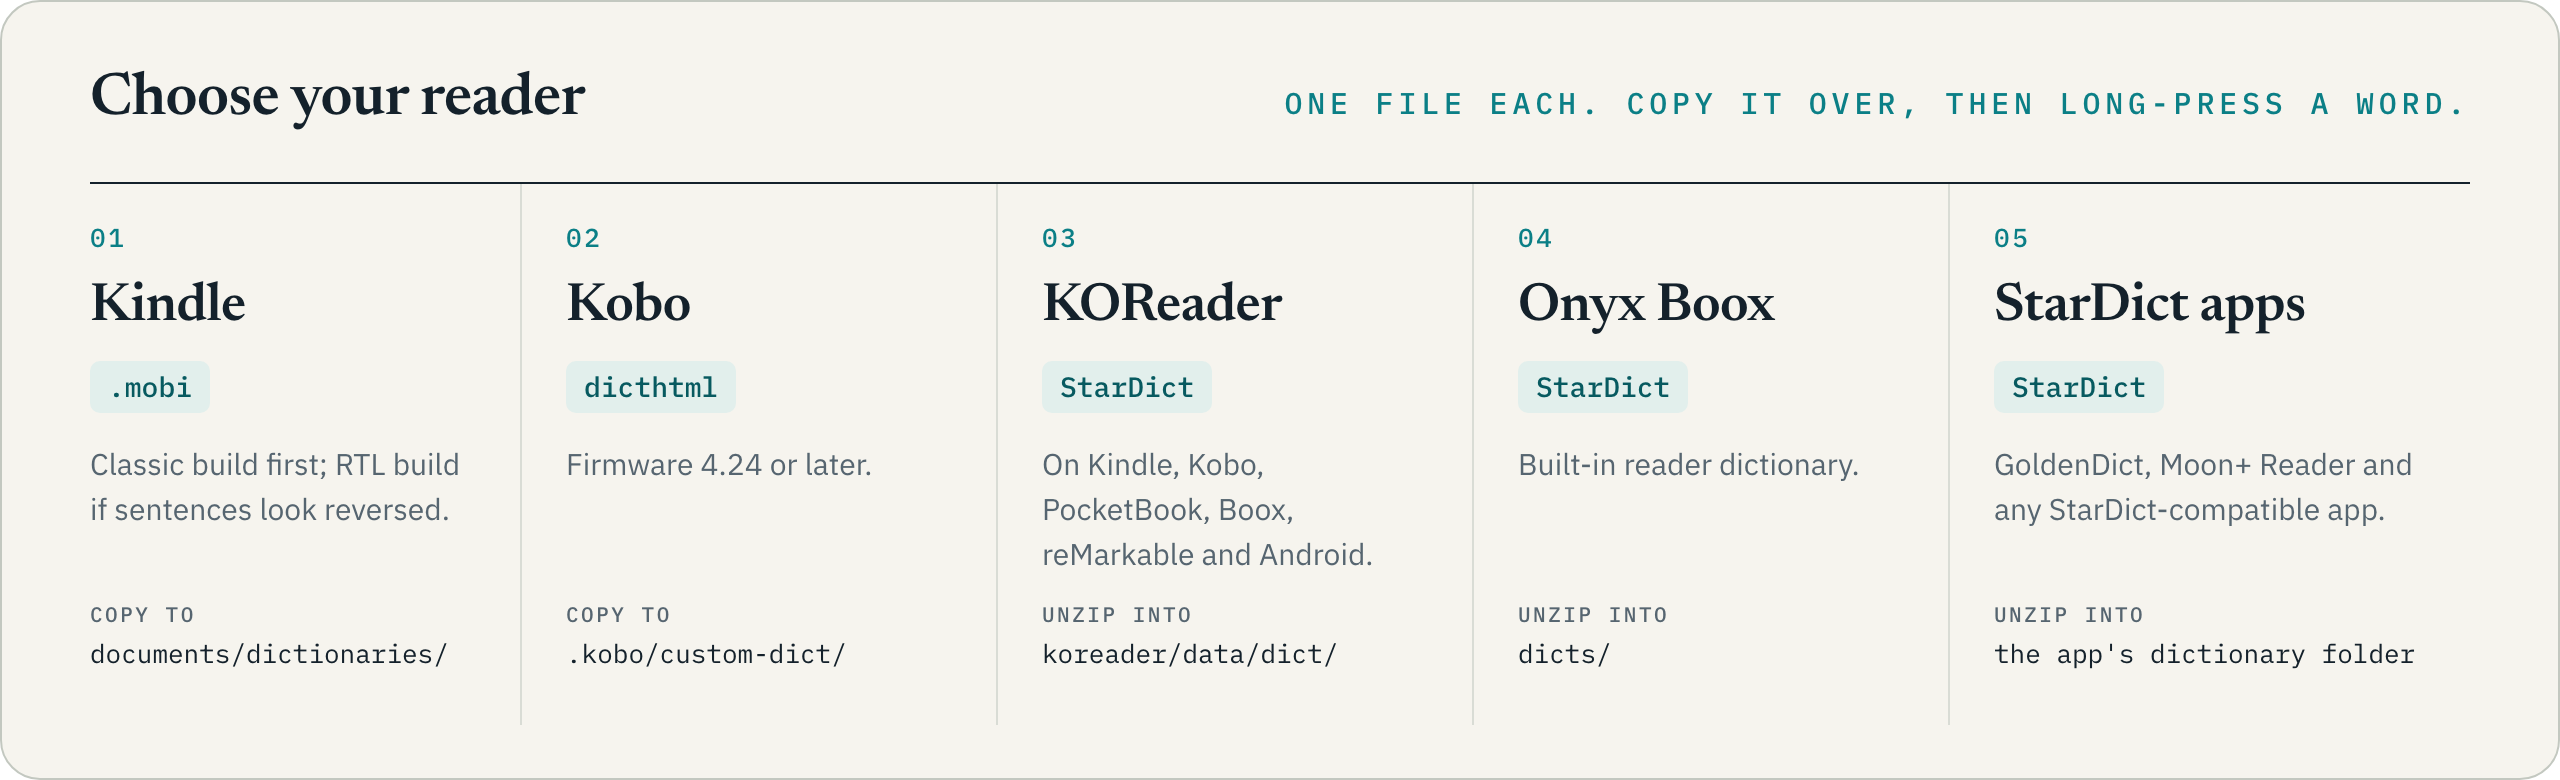
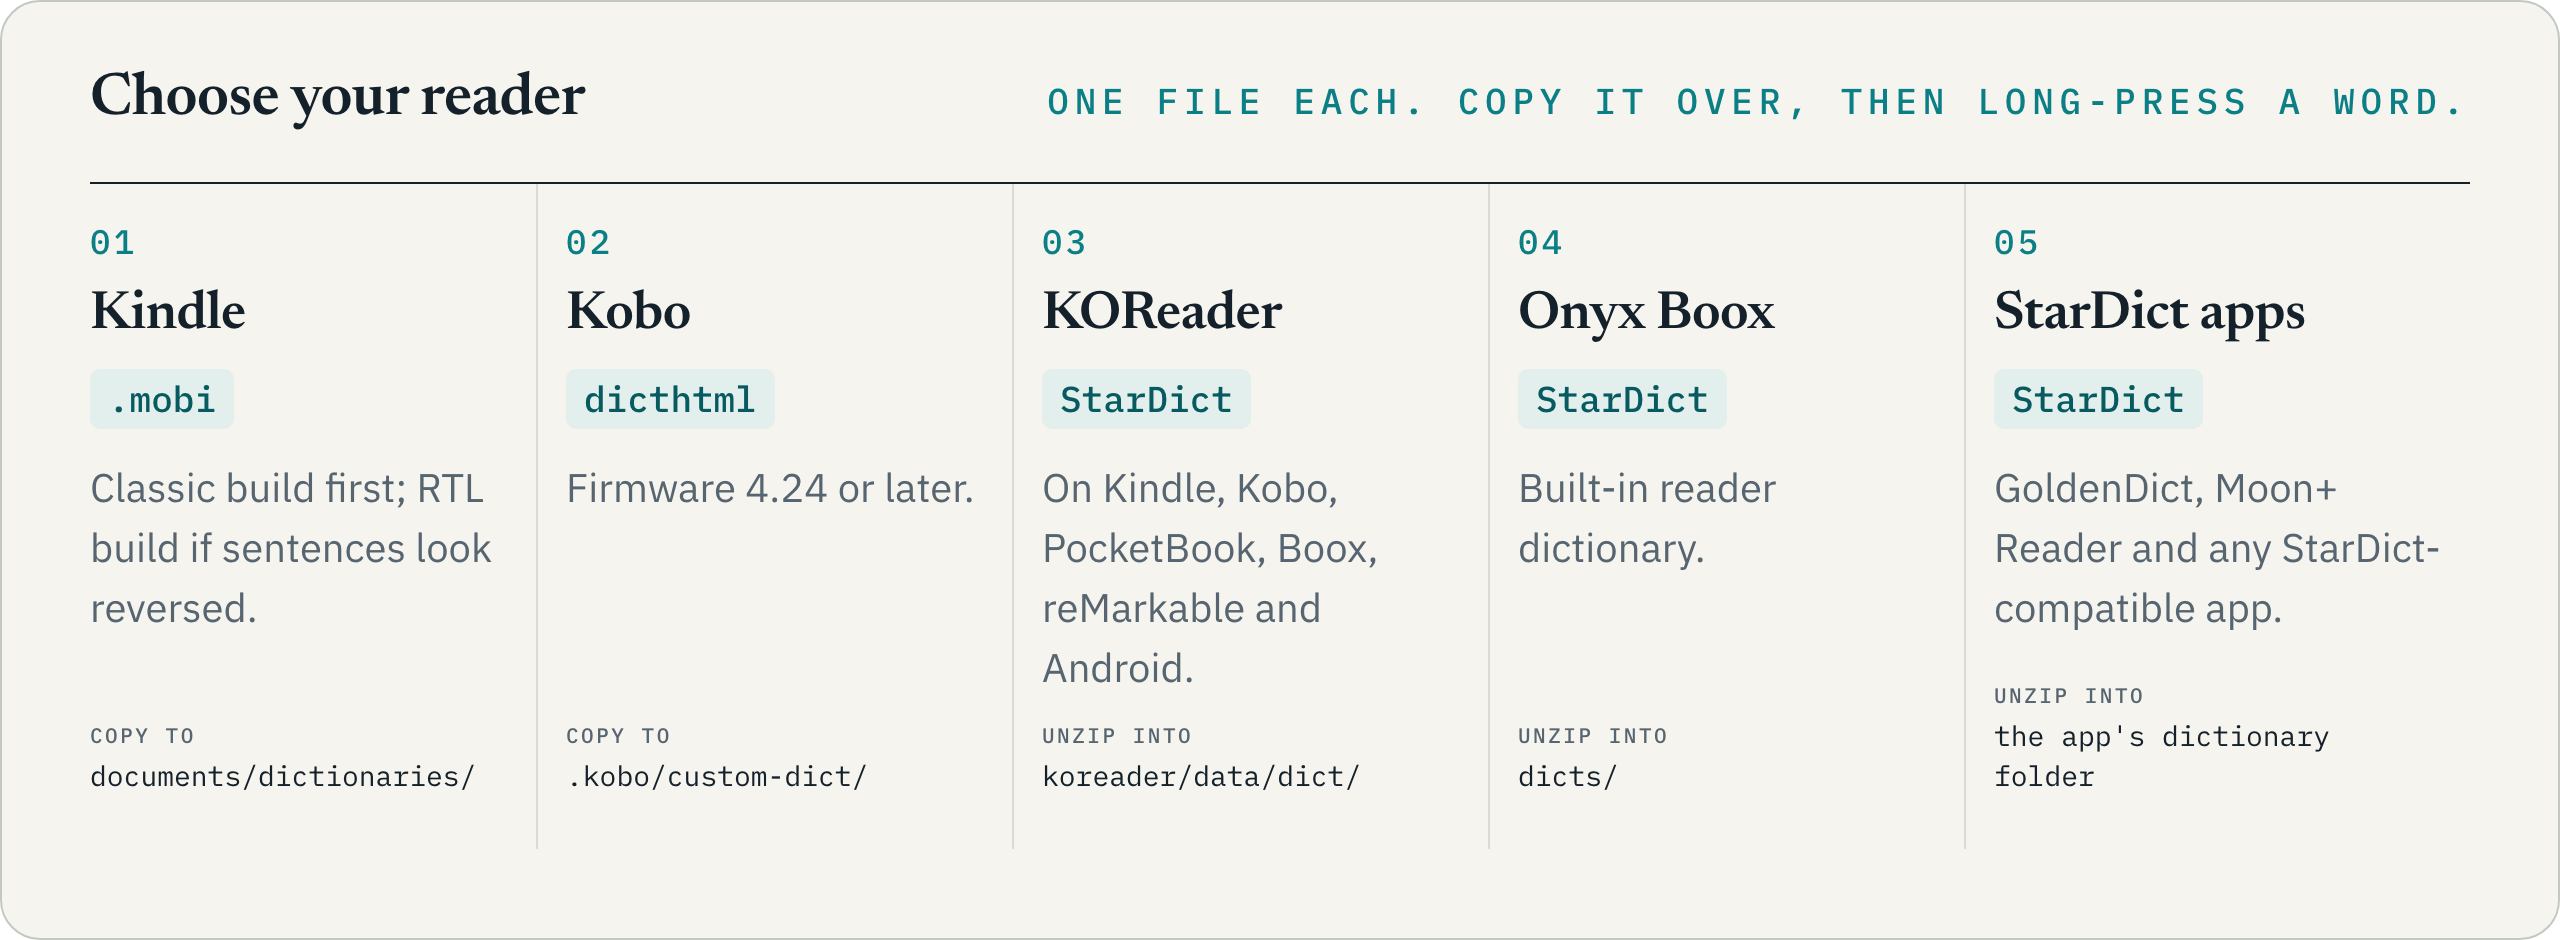
docs(readme): larger figure type, fix hero and legend layout, tighten intro

diff --git a/pipeline/site/readme/sections.html b/pipeline/site/readme/sections.html
@@ -4,17 +4,17 @@
 .card{padding:34px 44px 0}
 .top{display:flex;justify-content:space-between;align-items:baseline}
 .top .t{font:600 30px/1 var(--serif);letter-spacing:-.01em}
-.leg{display:flex;gap:22px;font:500 13px/1 var(--mono);letter-spacing:.06em;color:var(--muted)}
+.leg{display:flex;gap:22px;font:500 17px/1 var(--mono);letter-spacing:.06em;color:var(--muted)}
 .leg span:before{content:"";display:inline-block;width:12px;height:12px;border-radius:2px;background:var(--muted);margin-right:8px;vertical-align:-1px}
 .leg .n:before{background:var(--accent)}
 .cols{display:grid;grid-template-columns:1fr 1fr;gap:0 56px;margin-top:24px;border-top:1px solid var(--ink);padding-top:14px}
-.r{display:grid;grid-template-columns:190px 1fr 58px;align-items:center;gap:14px;height:34px}
-.nm{font-size:15px;white-space:nowrap}
+.r{display:grid;grid-template-columns:250px 1fr 66px;align-items:center;gap:14px;height:34px}
+.nm{font-size:20px;white-space:nowrap}
 .tr{height:14px;background:var(--rule);border-radius:3px;position:relative}
 .tr i{position:absolute;inset:0 auto 0 0;background:var(--muted);border-radius:3px}
 .tr i.n{background:var(--accent)}
-.v{font:500 14px/1 var(--mono);text-align:right}
-.note{margin-top:12px;font:400 13px/1.4 var(--mono);color:var(--muted);letter-spacing:.03em}
+.v{font:500 18px/1 var(--mono);text-align:right}
+.note{margin-top:12px;font:400 17px/1.4 var(--mono);color:var(--muted);letter-spacing:.03em}
 </style></head><body><div class="card">
 <div class="top"><span class="t">Coverage by subject</span><div class="leg"><span>Existing section</span><span class="n">New in v3.1</span></div></div>
 <div class="cols"><div><div class="r"><span class="nm">Engineering</span><span class="tr"><i class="" style="width:100.00%"></i></span><span class="v">7,110</span></div><div class="r"><span class="nm">Computing</span><span class="tr"><i class="" style="width:75.94%"></i></span><span class="v">5,399</span></div><div class="r"><span class="nm">Business &amp; economics</span><span class="tr"><i class="" style="width:60.97%"></i></span><span class="v">4,335</span></div><div class="r"><span class="nm">Sports</span><span class="tr"><i class="" style="width:58.44%"></i></span><span class="v">4,155</span></div><div class="r"><span class="nm">Chemistry</span><span class="tr"><i class="" style="width:56.40%"></i></span><span class="v">4,010</span></div><div class="r"><span class="nm">Law</span><span class="tr"><i class="" style="width:56.33%"></i></span><span class="v">4,005</span></div><div class="r"><span class="nm">Informal &amp; slang</span><span class="tr"><i class="" style="width:35.36%"></i></span><span class="v">2,514</span></div><div class="r"><span class="nm">Medicine</span><span class="tr"><i class="" style="width:22.97%"></i></span><span class="v">1,633</span></div><div class="r"><span class="nm">Geography</span><span class="tr"><i class="" style="width:17.02%"></i></span><span class="v">1,210</span></div><div class="r"><span class="nm">Philosophy &amp; logic</span><span class="tr"><i class="n" style="width:16.61%"></i></span><span class="v">1,181</span></div></div><div><div class="r"><span class="nm">Biology</span><span class="tr"><i class="" style="width:14.01%"></i></span><span class="v">996</span></div><div class="r"><span class="nm">Arts</span><span class="tr"><i class="n" style="width:12.17%"></i></span><span class="v">865</span></div><div class="r"><span class="nm">Earth &amp; environmental</span><span class="tr"><i class="n" style="width:10.59%"></i></span><span class="v">753</span></div><div class="r"><span class="nm">Transport &amp; logistics</span><span class="tr"><i class="n" style="width:10.11%"></i></span><span class="v">719</span></div><div class="r"><span class="nm">Mathematics</span><span class="tr"><i class="" style="width:10.07%"></i></span><span class="v">716</span></div><div class="r"><span class="nm">Agriculture &amp; veterinary</span><span class="tr"><i class="n" style="width:9.93%"></i></span><span class="v">706</span></div><div class="r"><span class="nm">Psychology</span><span class="tr"><i class="" style="width:9.52%"></i></span><span class="v">677</span></div><div class="r"><span class="nm">Astronomy</span><span class="tr"><i class="" style="width:9.42%"></i></span><span class="v">670</span></div><div class="r"><span class="nm">Linguistics</span><span class="tr"><i class="" style="width:9.35%"></i></span><span class="v">665</span></div><div class="r"><span class="nm">Music</span><span class="tr"><i class="" style="width:8.87%"></i></span><span class="v">631</span></div></div></div>

diff --git a/pipeline/site/readme/v31.html b/pipeline/site/readme/v31.html
@@ -5,24 +5,24 @@
 .top{grid-column:1/3;display:flex;justify-content:space-between;align-items:baseline}
 .top .t{font:600 30px/1 var(--serif);letter-spacing:-.01em}
 .g{margin-top:26px;border-top:1px solid var(--ink);padding-top:22px}
-.g h4,.s h4{font:500 12px/1 var(--mono);letter-spacing:.14em;text-transform:uppercase;color:var(--muted);margin-bottom:20px}
+.g h4,.s h4{font:500 16px/1 var(--mono);letter-spacing:.14em;text-transform:uppercase;color:var(--muted);margin-bottom:20px}
 .row{margin-bottom:20px}
 .row .lab{display:flex;justify-content:space-between;align-items:baseline;margin-bottom:7px}
-.row .lab span{font:500 14px/1 var(--mono);letter-spacing:.06em;color:var(--muted)}
+.row .lab span{font:500 18px/1 var(--mono);letter-spacing:.06em;color:var(--muted)}
 .row .lab b{font:600 26px/1 var(--serif);letter-spacing:-.01em}
 .bar{height:16px;background:var(--rule);border-radius:3px;position:relative}
 .bar i{position:absolute;left:0;top:0;bottom:0;background:var(--muted);border-radius:3px}
 .bar i.n{background:var(--accent)}
 .bar i.o{background:var(--accent-deep)}
-.delta{font:500 13px/1 var(--mono);color:var(--accent-deep);margin-top:7px}
-.note{margin-top:26px;padding-top:18px;border-top:1px solid var(--rule);font-size:15px;line-height:1.55;color:var(--muted)}
+.delta{font:500 17px/1 var(--mono);color:var(--accent-deep);margin-top:7px}
+.note{margin-top:26px;padding-top:18px;border-top:1px solid var(--rule);font-size:20px;line-height:1.55;color:var(--muted)}
 .note b{color:var(--ink);font-weight:500}
 .s{margin-top:26px;border-top:1px solid var(--ink);padding-top:22px}
 .chips{display:grid;grid-template-columns:repeat(3,1fr);gap:12px}
 .chip{border:1px solid var(--rule-strong);background:var(--surface);border-radius:10px;padding:13px 12px 12px 14px}
 .chip b{display:block;white-space:nowrap;font:600 17px/1.15 var(--serif);letter-spacing:-.005em}
-.chip span{display:block;margin-top:5px;font:400 15px/1.3 var(--fa);direction:rtl;text-align:left;color:var(--muted)}
-.chip em{display:block;margin-top:7px;font:500 13px/1 var(--mono);font-style:normal;color:var(--accent-deep)}
+.chip span{display:block;margin-top:5px;font:400 17px/1.3 var(--fa);direction:rtl;text-align:left;color:var(--muted)}
+.chip em{display:block;margin-top:7px;font:500 17px/1 var(--mono);font-style:normal;color:var(--accent-deep)}
 </style></head><body><div class="card">
 <div class="top"><span class="t">What is new in v3.1</span><span class="tag">12 new sections · 10,085 new entries</span></div>
 <div class="g"><h4>Entries per release</h4>

diff --git a/pipeline/site/readme/entry.html b/pipeline/site/readme/entry.html
@@ -8,18 +8,18 @@
 .e{display:flex;align-items:baseline;gap:16px;padding:24px 0;border-bottom:1px solid var(--rule);white-space:nowrap}
 .e:last-child{border-bottom:0}
 .hw{font:600 46px/1 var(--serif);letter-spacing:-.015em;white-space:nowrap}
-.pos{font:400 18px/1 var(--mono);color:var(--muted)}
-.sub{font:400 17px/1 var(--fa);color:var(--muted)}
+.pos{font:400 24px/1 var(--mono);color:var(--muted)}
+.sub{font:400 22px/1 var(--fa);color:var(--muted)}
 .def{margin-left:auto;direction:rtl;text-align:right;font:400 26px/1.7 var(--fa);white-space:nowrap}
-.def bdi{direction:ltr;font:400 20px/1 var(--sans);color:var(--muted)}
-.def .x{font-size:20px;color:var(--muted)}
-.b{display:inline-flex;align-items:center;justify-content:center;width:22px;height:22px;border-radius:50%;background:var(--accent);color:#fff;font:500 12px/1 var(--mono);vertical-align:middle;margin:0 5px;position:relative;top:-3px}
+.def bdi{direction:ltr;font:400 26px/1 var(--sans);color:var(--muted)}
+.def .x{font-size:26px;color:var(--muted)}
+.b{display:inline-flex;align-items:center;justify-content:center;width:22px;height:22px;border-radius:50%;background:var(--accent);color:#fff;font:500 16px/1 var(--mono);vertical-align:middle;margin:0 5px;position:relative;top:-3px}
 .pos .b,.sub .b,.hw .b{top:-2px}
 .key{margin-top:24px;border-top:1px solid var(--ink);padding-top:14px}
-.k{display:flex;align-items:flex-start;gap:12px;padding:8px 0;font-size:15px;line-height:1.4}
+.k{display:flex;align-items:flex-start;gap:12px;padding:8px 0;font-size:20px;line-height:1.4}
 .k .b{margin:1px 0 0;top:0;flex:none;color:#fff}
 .p{font:500 28px/1 var(--fa)!important;padding:0 9px!important;vertical-align:-3px}
-.k code{font:500 14px/1 var(--mono);background:var(--accent-soft);color:var(--accent-deep);padding:2px 6px;border-radius:4px}
+.k code{font:500 18px/1 var(--mono);background:var(--accent-soft);color:var(--accent-deep);padding:2px 6px;border-radius:4px}
 .k span{color:var(--muted)}
 </style></head><body><div class="card">
 <div class="top"><span class="t">Anatomy of an entry</span><span class="tag">Real entries from the dictionary</span></div>

diff --git a/pipeline/site/readme/devices.html b/pipeline/site/readme/devices.html
@@ -5,13 +5,13 @@
 .top{display:flex;justify-content:space-between;align-items:baseline}
 .top .t{font:600 30px/1 var(--serif);letter-spacing:-.01em}
 .grid{display:grid;grid-template-columns:repeat(5,1fr);margin-top:26px;border-top:1px solid var(--ink)}
-.d{padding:20px 22px 26px 0;margin-right:22px;border-right:1px solid var(--rule);min-height:262px;display:flex;flex-direction:column}
+.d{padding:20px 14px 26px 0;margin-right:14px;border-right:1px solid var(--rule);min-height:262px;display:flex;flex-direction:column}
 .d:last-child{border-right:0;margin-right:0}
-.n{font:500 13px/1 var(--mono);color:var(--accent);letter-spacing:.1em}
+.n{font:500 17px/1 var(--mono);color:var(--accent);letter-spacing:.1em}
 .d h3{font:600 27px/1.1 var(--serif);margin-top:14px;letter-spacing:-.01em}
-.fmt{display:inline-block;align-self:flex-start;margin-top:12px;font:500 14px/1 var(--mono);background:var(--accent-soft);color:var(--accent-deep);padding:6px 9px;border-radius:5px}
-.d p{margin-top:14px;font-size:15px;line-height:1.5;color:var(--muted)}
-.path{margin-top:auto;padding-top:14px;font:400 13px/1.45 var(--mono);color:var(--ink);word-break:break-all}
+.fmt{display:inline-block;align-self:flex-start;margin-top:12px;font:500 18px/1 var(--mono);background:var(--accent-soft);color:var(--accent-deep);padding:6px 9px;border-radius:5px}
+.d p{margin-top:14px;font-size:20px;line-height:1.5;color:var(--muted)}
+.path{margin-top:auto;padding-top:14px;font:400 14px/1.45 var(--mono);color:var(--ink)}
 .path small{display:block;font:500 10.5px/1 var(--mono);letter-spacing:.12em;text-transform:uppercase;color:var(--muted);margin-bottom:5px}
 </style></head><body><div class="card">
 <div class="top"><span class="t">Choose your reader</span><span class="tag">One file each. Copy it over, then long-press a word.</span></div>

diff --git a/pipeline/site/readme/hero.html b/pipeline/site/readme/hero.html
@@ -16,10 +16,10 @@ h1 span{display:block}
 .pop:before{content:"";position:absolute;top:-9px;left:118px;width:16px;height:16px;background:var(--bg);border-left:1px solid var(--ink);border-top:1px solid var(--ink);transform:rotate(45deg)}
 .pop .h{display:flex;align-items:baseline;gap:12px}
 .pop .h b{font:600 34px/1 var(--serif)}
-.pop .h i{margin-left:auto;font:400 15px/1 var(--fa);font-style:normal;color:var(--muted)}
+.pop .h i{margin-left:auto;font:400 18px/1 var(--fa);font-style:normal;color:var(--muted)}
 .pop .d{font:500 32px/1.5 var(--fa);direction:rtl;text-align:right;margin-top:10px}
 .pop .d2{font:400 19px/1.7 var(--fa);direction:rtl;text-align:right;color:var(--muted)}
-.pop .f{margin-top:12px;padding-top:11px;border-top:1px solid var(--rule);display:flex;justify-content:space-between;font:400 12.5px/1 var(--mono);letter-spacing:.06em;color:var(--muted);text-transform:uppercase}
+.pop .f{margin-top:12px;padding-top:11px;border-top:1px solid var(--rule);display:flex;justify-content:space-between;font:400 14px/1 var(--mono);letter-spacing:.05em;color:var(--muted);text-transform:uppercase}
 .lines{margin-top:250px}
 </style></head><body><div class="card">
 <div class="l">
@@ -33,7 +33,7 @@ h1 span{display:block}
     <div class="h"><b>resilience</b><i>[روانشناسی]</i></div>
     <div class="d">تابآوری</div>
     <div class="d2">برجهندگی، قابلیت ارتجاع، جهندگی</div>
-    <div class="f"><span>English-Persian Dictionary v3.1</span><span>Offline</span></div>
+    <div class="f"><span>English-Persian v3.1</span><span>Offline</span></div>
   </div>
   <div class="lines"><div class="ln" style="width:92%"></div><div class="ln" style="width:74%"></div></div>
 </div>

diff --git a/pipeline/site/readme/stats.html b/pipeline/site/readme/stats.html
@@ -6,7 +6,7 @@
 .c:first-child{border-left:0;padding-left:44px}
 .c b{display:block;font:600 52px/1 var(--serif);letter-spacing:-.02em;font-variation-settings:"opsz" 72}
 .c:first-child b{color:var(--accent-deep)}
-.c span{display:block;margin-top:12px;font:500 13px/1.4 var(--mono);letter-spacing:.1em;text-transform:uppercase;color:var(--muted)}
+.c span{display:block;margin-top:12px;font:500 17px/1.4 var(--mono);letter-spacing:.1em;text-transform:uppercase;color:var(--muted)}
 </style></head><body><div class="card">
 <div class="c"><b>164,524</b><span>Entries</span></div>
 <div class="c"><b>31,189</b><span>Inflected forms<br>indexed</span></div>

diff --git a/pipeline/site/readme/readme.css b/pipeline/site/readme/readme.css
@@ -6,5 +6,5 @@ html,body{width:100vw;height:100vh;background:transparent;overflow:hidden}
 body{font-family:var(--sans);color:var(--ink);-webkit-font-smoothing:antialiased}
 .card{width:100%;height:100%;background:var(--bg);border:1px solid var(--rule-strong);border-radius:20px;overflow:hidden;position:relative}
 .mono{font-family:var(--mono)}
-.tag{font:500 15px/1 var(--mono);letter-spacing:.16em;text-transform:uppercase;color:var(--accent)}
+.tag{font:500 18px/1 var(--mono);letter-spacing:.16em;text-transform:uppercase;color:var(--accent)}
 .fa{font-family:var(--fa);direction:rtl}

diff --git a/README.md b/README.md
@@ -26,16 +26,7 @@ A free, offline **English-to-Persian (Farsi) dictionary** with **164,524 entries
 
 ### Start here: [**open the website, pick your device and download**](https://shahabahreini.github.io/English-Persian-Dictionary/)
 
-The [project website](https://shahabahreini.github.io/English-Persian-Dictionary/) is the easiest place to start: choose your e-reader (Kindle, Kobo, KOReader, Onyx Boox) and it shows the right file with step-by-step install instructions. A Persian version is at [شروع از صفحهٔ فارسی](https://shahabahreini.github.io/English-Persian-Dictionary/fa/).
-
-| Where to click | What you get |
-|---|---|
-| [**Website**](https://shahabahreini.github.io/English-Persian-Dictionary/) | Device picker, install guides, FAQ |
-| [**Release v3.1.0**](https://github.com/shahabahreini/English-Persian-Dictionary/releases/tag/v3.1.0) | Direct downloads of every file |
-| [Change report](https://shahabahreini.github.io/English-Persian-Dictionary/report.html) | Every new and corrected entry, searchable |
-| [صفحهٔ فارسی](https://shahabahreini.github.io/English-Persian-Dictionary/fa/) | Persian site with installation guide |
-
-[Download table](#download) · [FAQ](#frequently-asked-questions) · [فارسی ↓](#فارسی)
+The [project website](https://shahabahreini.github.io/English-Persian-Dictionary/) is the easiest place to start: choose your e-reader (Kindle, Kobo, KOReader, Onyx Boox) and it shows the right file with step-by-step install instructions. Prefer a direct download? Every file is attached to the [v3.1.0 release](https://github.com/shahabahreini/English-Persian-Dictionary/releases/tag/v3.1.0). Persian speakers can start at the [Persian site](https://shahabahreini.github.io/English-Persian-Dictionary/fa/).
 
 > **Read this first:** the new and rewritten Persian wording was produced by AI language models and has **not been reviewed by a human Persian editor**. See [Known limits](#known-limits). Corrections are very welcome.
 
